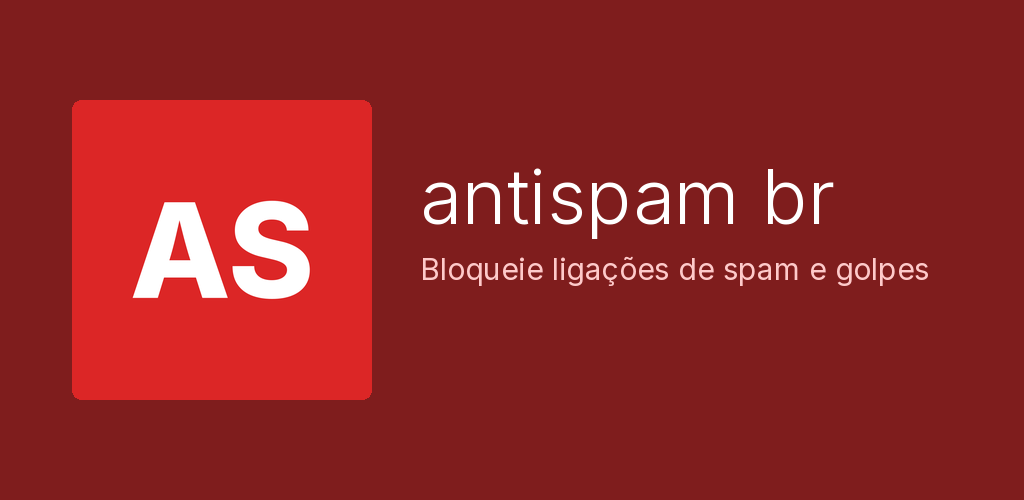
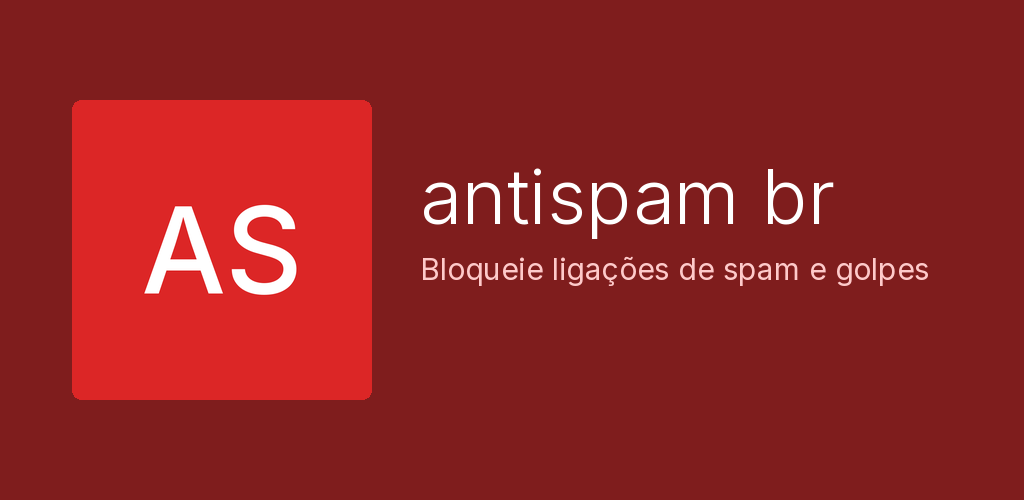
feat(brand): ícone na família Conexus (Inter Medium)
- monograma AS em Inter Medium a ~52% da área visível (antes Inter
  ExtraBold a ~70%), gerado por render_brand.py (style flat, --android-res)
- paleta #DC2626 mantida; camada monocromática reaproveita o foreground
- mipmaps legados mdpi–xxxhdpi com cantos de 12%, foreground adaptativo
  (também usado no splash do Android 12+) e gráficos da Play
  (icon-512, feature graphic) regenerados
- DESIGN.md atualizado

Changed region(s): [[0.125, 0.39, 0.3125, 0.6]]

diff --git a/docs/DESIGN.md b/docs/DESIGN.md
@@ -25,8 +25,10 @@ uv run ~/.cursor/skills/brand-identity/scripts/render_brand.py antispam-br --and
 | Ícone da Play (512) | `apps/android/play/graphics/icon-512.png` |
 | Feature graphic (1024×500, sem alpha) | `apps/android/play/graphics/feature-graphic.png` |
 
-Marca: monograma **AS** em Inter ExtraBold (SIL OFL) branco, centrado num quadrado de cor sólida —
-plano e geométrico como um tile Metro, sem gradiente, escudo ou telefone.
+Marca: monograma **AS** em Inter Medium (SIL OFL) branco, ocupando ~52% da área visível do ícone,
+centrado num quadrado de cor sólida — plano e geométrico como um tile Metro, sem gradiente, escudo ou
+telefone. Segue a família Conexus (`agents/.ai/skills/brand-identity/FAMILY.md`) e é gerado só por
+`render_brand.py antispam-br --android-res`; o ícone legado mantém cantos de 12%.
 
 ### Paleta
 
